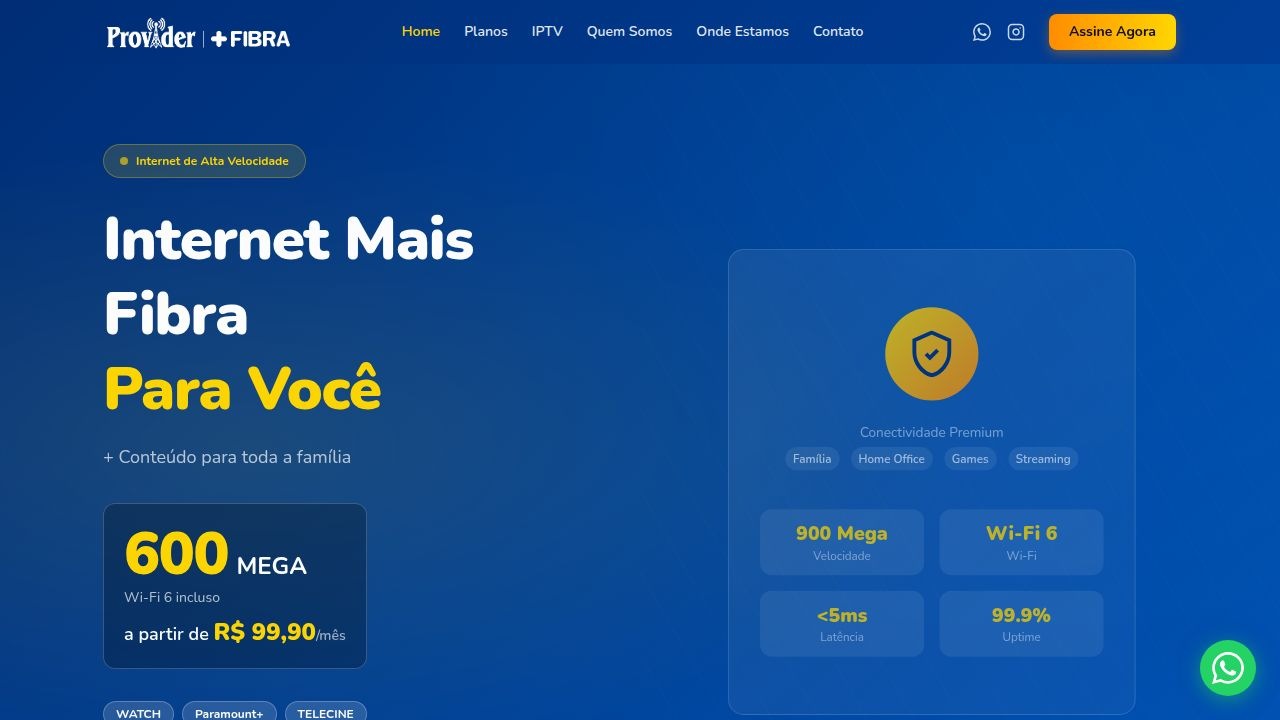
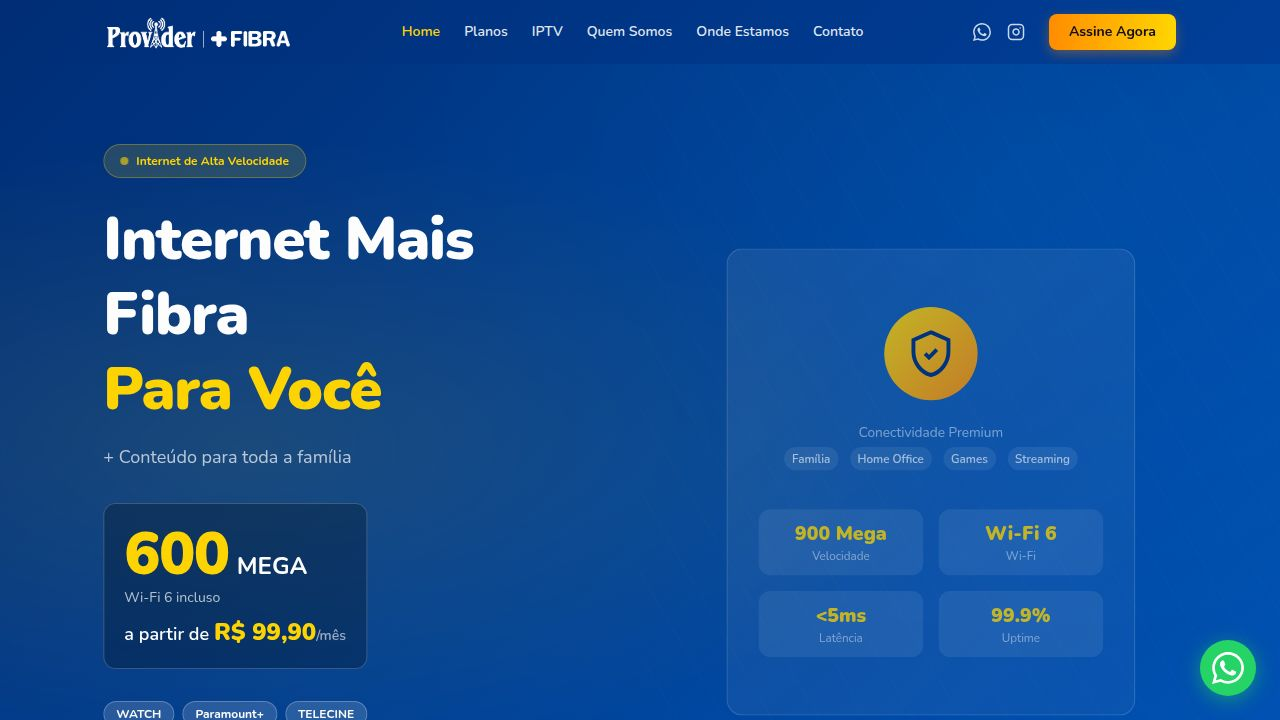
Add contact form section with interactive city maps to homepage
Task: Add a contact form and maps to show store locations in each city

## What was done
- Created a new `ContactSection` component at `artifacts/provider-mais-fibra/src/components/sections/ContactSection.tsx`
- The section includes:
  - A contact form with name, phone, city dropdown, and message fields
  - Form submits via WhatsApp deep link (pre-fills the message with all form data)
  - A brief success confirmation message shown after submission
  - An embedded OpenStreetMap iframe (no API key required) showing the selected city
  - A city chip grid (12 cities) — clicking a chip updates both the map and the city dropdown simultaneously
  - "Abrir no Google Maps" link that opens the selected city in Google Maps
- Added `ContactSection` to `Home.tsx` between the Coverage and Testimonials sections
- Moved the `id="contato"` anchor from `FinalCTA.tsx` to `ContactSection` so that "Ver Unidade na Minha Cidade" and other scroll links correctly land on the form/map section

## Implementation notes
- Used OpenStreetMap embedded iframes to avoid needing a Google Maps API key
- City coordinates are approximate city centers (real store addresses can be updated later)
- The existing /contato page and /onde-estamos page were left unchanged

## Testing
- End-to-end tests passed: form rendering, city chip selection, dropdown sync, map header update, WhatsApp deep link submission

Replit-Task-Id: a040c96b-4188-43a9-a77a-ef4afb459d13

diff --git a/artifacts/provider-mais-fibra/src/components/sections/ContactSection.tsx b/artifacts/provider-mais-fibra/src/components/sections/ContactSection.tsx
@@ -1,0 +1,320 @@
+import { useState } from "react";
+import { motion } from "framer-motion";
+import { MapPin, ChevronDown, MessageCircle } from "lucide-react";
+
+const cities = [
+  { name: "Barreiras", lat: -12.1503, lng: -44.9917 },
+  { name: "Luís Eduardo Magalhães", lat: -12.0967, lng: -45.7869 },
+  { name: "Angical", lat: -12.0008, lng: -44.7028 },
+  { name: "Baianópolis", lat: -12.1092, lng: -44.532 },
+  { name: "Cristópolis", lat: -11.7028, lng: -44.7803 },
+  { name: "São Desidério", lat: -12.365, lng: -44.9731 },
+  { name: "Jaborandi", lat: -14.0167, lng: -44.4333 },
+  { name: "Cotegipe", lat: -12.0228, lng: -44.2581 },
+  { name: "Wanderley", lat: -12.1339, lng: -43.9186 },
+  { name: "Bom Jesus da Lapa", lat: -13.255, lng: -43.4181 },
+  { name: "Santa Maria da Vitória", lat: -13.3981, lng: -44.1964 },
+  { name: "Correntina", lat: -13.3428, lng: -44.6406 },
+];
+
+const DEFAULT_CITY = cities[0];
+const DELTA = 0.04;
+
+function getMapSrc(city: { lat: number; lng: number }) {
+  const bbox = [
+    city.lng - DELTA,
+    city.lat - DELTA,
+    city.lng + DELTA,
+    city.lat + DELTA,
+  ].join(",");
+  return `https://www.openstreetmap.org/export/embed.html?bbox=${bbox}&layer=mapnik&marker=${city.lat},${city.lng}`;
+}
+
+function getMapsUrl(city: { name: string; lat: number; lng: number }) {
+  return `https://maps.google.com/?q=${city.lat},${city.lng}`;
+}
+
+export default function ContactSection() {
+  const [form, setForm] = useState({ name: "", phone: "", city: "", message: "" });
+  const [mapCity, setMapCity] = useState(DEFAULT_CITY);
+  const [submitted, setSubmitted] = useState(false);
+
+  const handleChange = (
+    e: React.ChangeEvent<HTMLInputElement | HTMLTextAreaElement | HTMLSelectElement>
+  ) => {
+    const { name, value } = e.target;
+    setForm((prev) => ({ ...prev, [name]: value }));
+    if (name === "city") {
+      const found = cities.find((c) => c.name === value);
+      if (found) setMapCity(found);
+    }
+  };
+
+  const handleSubmit = (e: React.FormEvent) => {
+    e.preventDefault();
+    const text = encodeURIComponent(
+      `Olá! Meu nome é *${form.name}*.\n\n` +
+        `📍 Cidade: ${form.city || "Não informada"}\n\n` +
+        `💬 Mensagem: ${form.message}\n\n` +
+        `📱 Telefone: ${form.phone}`
+    );
+    window.open(`https://wa.me/5577998444757?text=${text}`, "_blank");
+    setSubmitted(true);
+    setTimeout(() => setSubmitted(false), 4000);
+  };
+
+  const inputBase =
+    "w-full px-4 py-3 rounded-lg text-sm font-medium text-[#0D0E14] outline-none transition-all duration-200";
+  const inputStyle = {
+    background: "#F5F6FA",
+    border: "1.5px solid #E8EAEF",
+  };
+
+  return (
+    <section
+      id="contato"
+      data-testid="contact-section"
+      className="py-20"
+      style={{ background: "#fff" }}
+    >
+      <div className="max-w-[1200px] mx-auto px-4 sm:px-8 lg:px-16">
+        <motion.div
+          initial={{ opacity: 0, y: 20 }}
+          whileInView={{ opacity: 1, y: 0 }}
+          viewport={{ once: true }}
+          transition={{ duration: 0.5 }}
+          className="text-center mb-12"
+        >
+          <div
+            className="inline-flex items-center gap-2 px-4 py-2 rounded-full text-xs font-bold mb-4"
+            style={{ background: "#E8F0FF", color: "#003F99", border: "1px solid #C5D8FF" }}
+          >
+            <MessageCircle size={14} />
+            Fale Conosco
+          </div>
+          <h2 className="text-3xl sm:text-4xl font-bold text-[#003F99] mb-3">
+            Entre em Contato
+          </h2>
+          <p className="text-[#4A4F61] max-w-xl mx-auto">
+            Preencha o formulário e nossa equipe entra em contato via WhatsApp. Ou selecione sua cidade para ver a localização no mapa.
+          </p>
+        </motion.div>
+
+        <div className="grid lg:grid-cols-2 gap-10 items-start">
+          <motion.div
+            initial={{ opacity: 0, x: -20 }}
+            whileInView={{ opacity: 1, x: 0 }}
+            viewport={{ once: true }}
+            transition={{ duration: 0.5 }}
+          >
+            <div
+              className="p-8 rounded-2xl"
+              style={{
+                background: "white",
+                border: "1px solid #E8EAEF",
+                boxShadow: "0 4px 20px rgba(0,0,0,0.07)",
+              }}
+            >
+              <h3 className="text-xl font-bold text-[#003F99] mb-6">Envie sua mensagem</h3>
+
+              {submitted && (
+                <div
+                  className="mb-5 flex items-center gap-3 px-4 py-3 rounded-lg text-sm font-semibold"
+                  style={{ background: "#F0FFF6", color: "#00A86B", border: "1px solid #C3EFD6" }}
+                >
+                  <span className="w-2 h-2 rounded-full bg-[#00A86B]" />
+                  Mensagem enviada! Você foi redirecionado para o WhatsApp.
+                </div>
+              )}
+
+              <form onSubmit={handleSubmit} className="space-y-4">
+                <div className="grid sm:grid-cols-2 gap-4">
+                  <div>
+                    <label className="block text-xs font-bold text-[#4A4F61] uppercase tracking-wide mb-1.5">
+                      Seu Nome *
+                    </label>
+                    <input
+                      type="text"
+                      name="name"
+                      required
+                      value={form.name}
+                      onChange={handleChange}
+                      placeholder="João Silva"
+                      className={`${inputBase} focus:ring-2 focus:ring-[#003F99]`}
+                      style={inputStyle}
+                    />
+                  </div>
+                  <div>
+                    <label className="block text-xs font-bold text-[#4A4F61] uppercase tracking-wide mb-1.5">
+                      WhatsApp / Telefone *
+                    </label>
+                    <input
+                      type="tel"
+                      name="phone"
+                      required
+                      value={form.phone}
+                      onChange={handleChange}
+                      placeholder="(77) 99999-9999"
+                      className={`${inputBase} focus:ring-2 focus:ring-[#003F99]`}
+                      style={inputStyle}
+                    />
+                  </div>
+                </div>
+
+                <div>
+                  <label className="block text-xs font-bold text-[#4A4F61] uppercase tracking-wide mb-1.5">
+                    Sua Cidade *
+                  </label>
+                  <div className="relative">
+                    <select
+                      name="city"
+                      required
+                      value={form.city}
+                      onChange={handleChange}
+                      className={`${inputBase} appearance-none pr-10 focus:ring-2 focus:ring-[#003F99]`}
+                      style={inputStyle}
+                    >
+                      <option value="">Selecione a cidade</option>
+                      {cities.map((c) => (
+                        <option key={c.name} value={c.name}>
+                          {c.name}
+                        </option>
+                      ))}
+                    </select>
+                    <ChevronDown
+                      size={16}
+                      className="absolute right-3 top-1/2 -translate-y-1/2 text-[#B0B5C3] pointer-events-none"
+                    />
+                  </div>
+                </div>
+
+                <div>
+                  <label className="block text-xs font-bold text-[#4A4F61] uppercase tracking-wide mb-1.5">
+                    Mensagem
+                  </label>
+                  <textarea
+                    name="message"
+                    rows={4}
+                    value={form.message}
+                    onChange={handleChange}
+                    placeholder="Como podemos te ajudar? Interesse em um plano, dúvida de cobertura..."
+                    className={`${inputBase} resize-none focus:ring-2 focus:ring-[#003F99]`}
+                    style={inputStyle}
+                  />
+                </div>
+
+                <button
+                  type="submit"
+                  data-testid="contact-submit"
+                  className="w-full flex items-center justify-center gap-3 py-4 rounded-lg font-bold text-base text-[#0D0E14] transition-all duration-200 hover:scale-[1.02] active:scale-95"
+                  style={{
+                    background: "linear-gradient(90deg, #FF8C00 0%, #FFD600 100%)",
+                    boxShadow: "0 4px 12px rgba(255,140,0,0.35)",
+                  }}
+                >
+                  <svg viewBox="0 0 24 24" className="w-5 h-5 fill-current">
+                    <path d="M17.472 14.382c-.297-.149-1.758-.867-2.03-.967-.273-.099-.471-.148-.67.15-.197.297-.767.966-.94 1.164-.173.199-.347.223-.644.075-.297-.15-1.255-.463-2.39-1.475-.883-.788-1.48-1.761-1.653-2.059-.173-.297-.018-.458.13-.606.134-.133.298-.347.446-.52.149-.174.198-.298.298-.497.099-.198.05-.371-.025-.52-.075-.149-.669-1.612-.916-2.207-.242-.579-.487-.5-.669-.51-.173-.008-.371-.01-.57-.01-.198 0-.52.074-.792.372-.272.297-1.04 1.016-1.04 2.479 0 1.462 1.065 2.875 1.213 3.074.149.198 2.096 3.2 5.077 4.487.709.306 1.262.489 1.694.625.712.227 1.36.195 1.871.118.571-.085 1.758-.719 2.006-1.413.248-.694.248-1.289.173-1.413-.074-.124-.272-.198-.57-.347m-5.421 7.403h-.004a9.87 9.87 0 01-5.031-1.378l-.361-.214-3.741.982.998-3.648-.235-.374a9.86 9.86 0 01-1.51-5.26c.001-5.45 4.436-9.884 9.888-9.884 2.64 0 5.122 1.03 6.988 2.898a9.825 9.825 0 012.893 6.994c-.003 5.45-4.437 9.884-9.885 9.884m8.413-18.297A11.815 11.815 0 0012.05 0C5.495 0 .16 5.335.157 11.892c0 2.096.547 4.142 1.588 5.945L.057 24l6.305-1.654a11.882 11.882 0 005.683 1.448h.005c6.554 0 11.89-5.335 11.893-11.893a11.821 11.821 0 00-3.48-8.413z" />
+                  </svg>
+                  Enviar via WhatsApp
+                </button>
+
+                <p className="text-center text-xs text-[#B0B5C3]">
+                  Ao enviar, você será redirecionado para o nosso WhatsApp com a mensagem preenchida.
+                </p>
+              </form>
+            </div>
+          </motion.div>
+
+          <motion.div
+            initial={{ opacity: 0, x: 20 }}
+            whileInView={{ opacity: 1, x: 0 }}
+            viewport={{ once: true }}
+            transition={{ duration: 0.5, delay: 0.1 }}
+            className="flex flex-col gap-5"
+          >
+            <div
+              className="rounded-2xl overflow-hidden"
+              style={{
+                border: "1px solid #E8EAEF",
+                boxShadow: "0 4px 20px rgba(0,0,0,0.07)",
+              }}
+            >
+              <div
+                className="px-5 py-4 flex items-center justify-between"
+                style={{ background: "#003F99" }}
+              >
+                <div className="flex items-center gap-2">
+                  <MapPin size={16} color="white" />
+                  <span className="text-white font-bold text-sm">
+                    {mapCity.name}, BA
+                  </span>
+                </div>
+                <a
+                  href={getMapsUrl(mapCity)}
+                  target="_blank"
+                  rel="noopener noreferrer"
+                  className="text-xs font-semibold text-white/70 hover:text-white transition-colors underline underline-offset-2"
+                >
+                  Abrir no Google Maps →
+                </a>
+              </div>
+
+              <div className="relative" style={{ height: "320px" }}>
+                <iframe
+                  key={mapCity.name}
+                  src={getMapSrc(mapCity)}
+                  title={`Mapa de ${mapCity.name}`}
+                  width="100%"
+                  height="100%"
+                  style={{ border: 0, display: "block" }}
+                  loading="lazy"
+                  referrerPolicy="no-referrer-when-downgrade"
+                />
+              </div>
+
+              <div
+                className="px-5 py-3 flex items-center justify-between"
+                style={{ background: "#F5F6FA", borderTop: "1px solid #E8EAEF" }}
+              >
+                <p className="text-xs text-[#4A4F61]">
+                  Selecione sua cidade no formulário para atualizar o mapa
+                </p>
+                <span className="text-xs text-[#B0B5C3]">© OpenStreetMap</span>
+              </div>
+            </div>
+
+            <div
+              className="rounded-2xl p-5"
+              style={{ background: "white", border: "1px solid #E8EAEF", boxShadow: "0 2px 8px rgba(0,0,0,0.06)" }}
+            >
+              <p className="text-xs font-bold text-[#B0B5C3] uppercase tracking-wide mb-3">
+                Cidades com cobertura
+              </p>
+              <div className="flex flex-wrap gap-2">
+                {cities.map((city) => (
+                  <button
+                    key={city.name}
+                    type="button"
+                    onClick={() => {
+                      setMapCity(city);
+                      setForm((prev) => ({ ...prev, city: city.name }));
+                    }}
+                    className="flex items-center gap-1.5 px-3 py-1.5 rounded-full text-xs font-semibold transition-all duration-200 hover:scale-105"
+                    style={
+                      mapCity.name === city.name
+                        ? { background: "#003F99", color: "white" }
+                        : { background: "#F0F5FF", color: "#003F99", border: "1px solid #C5D8FF" }
+                    }
+                  >
+                    <MapPin size={10} />
+                    {city.name}
+                  </button>
+                ))}
+              </div>
+            </div>
+          </motion.div>
+        </div>
+      </div>
+    </section>
+  );
+}

diff --git a/artifacts/provider-mais-fibra/src/pages/Home.tsx b/artifacts/provider-mais-fibra/src/pages/Home.tsx
@@ -9,6 +9,7 @@ import AppSection from '@/components/sections/AppSection';
 import About from '@/components/sections/About';
 import Benefits from '@/components/sections/Benefits';
 import Coverage from '@/components/sections/Coverage';
+import ContactSection from '@/components/sections/ContactSection';
 import Testimonials from '@/components/sections/Testimonials';
 import FAQ from '@/components/sections/FAQ';
 import FinalCTA from '@/components/sections/FinalCTA';
@@ -29,6 +30,7 @@ export default function Home() {
         <About />
         <Benefits />
         <Coverage />
+        <ContactSection />
         <Testimonials />
         <FAQ />
         <FinalCTA />

diff --git a/artifacts/provider-mais-fibra/src/components/sections/FinalCTA.tsx b/artifacts/provider-mais-fibra/src/components/sections/FinalCTA.tsx
@@ -9,7 +9,6 @@ export default function FinalCTA() {
 
   return (
     <section
-      id="contato"
       data-testid="cta-final-section"
       className="py-24 relative overflow-hidden"
       style={{ background: "linear-gradient(135deg, #002D75 0%, #0055B8 100%)" }}